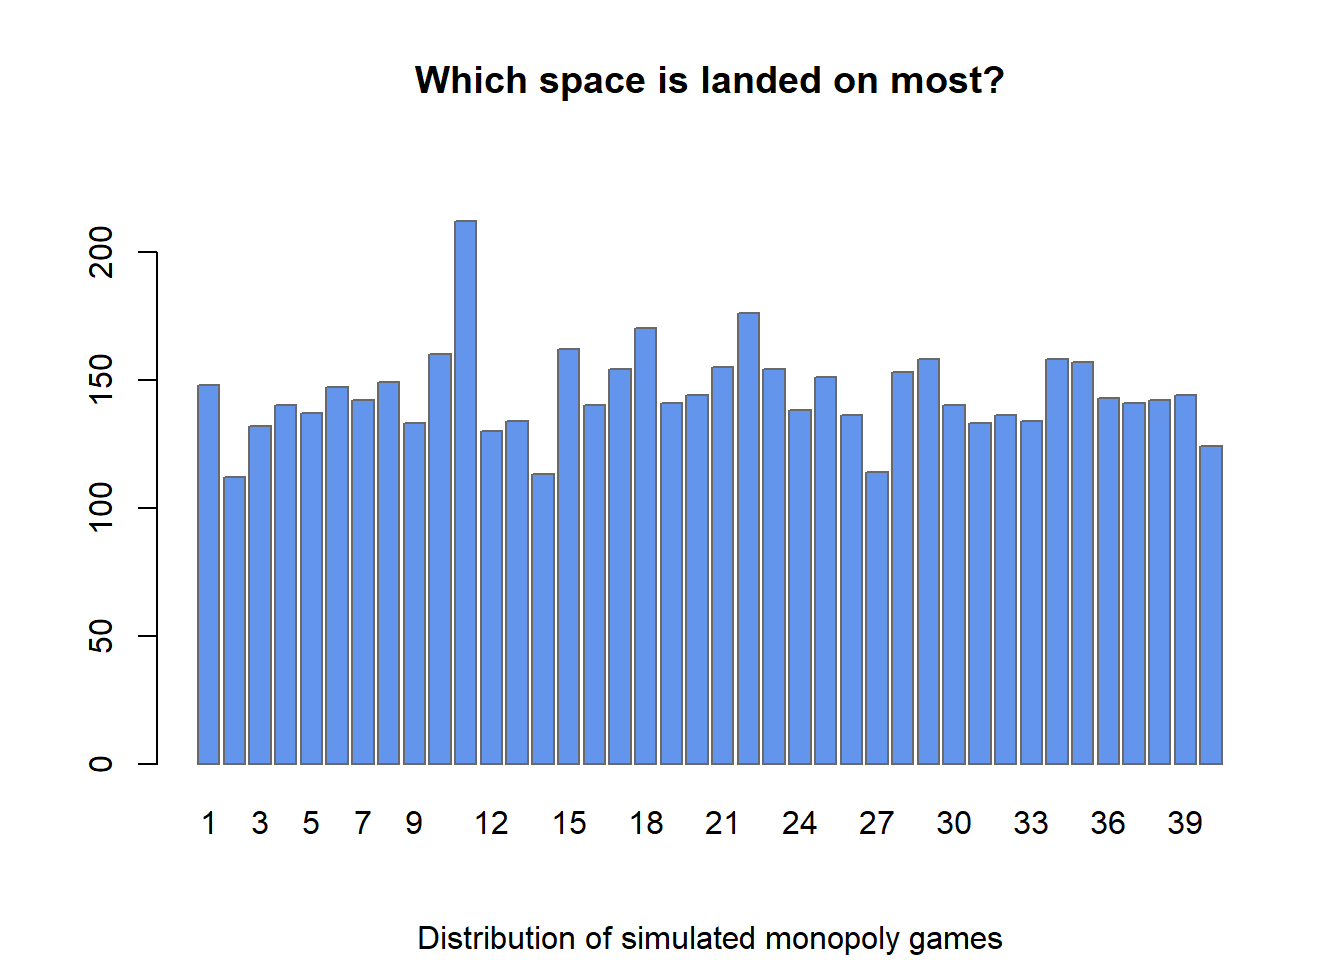
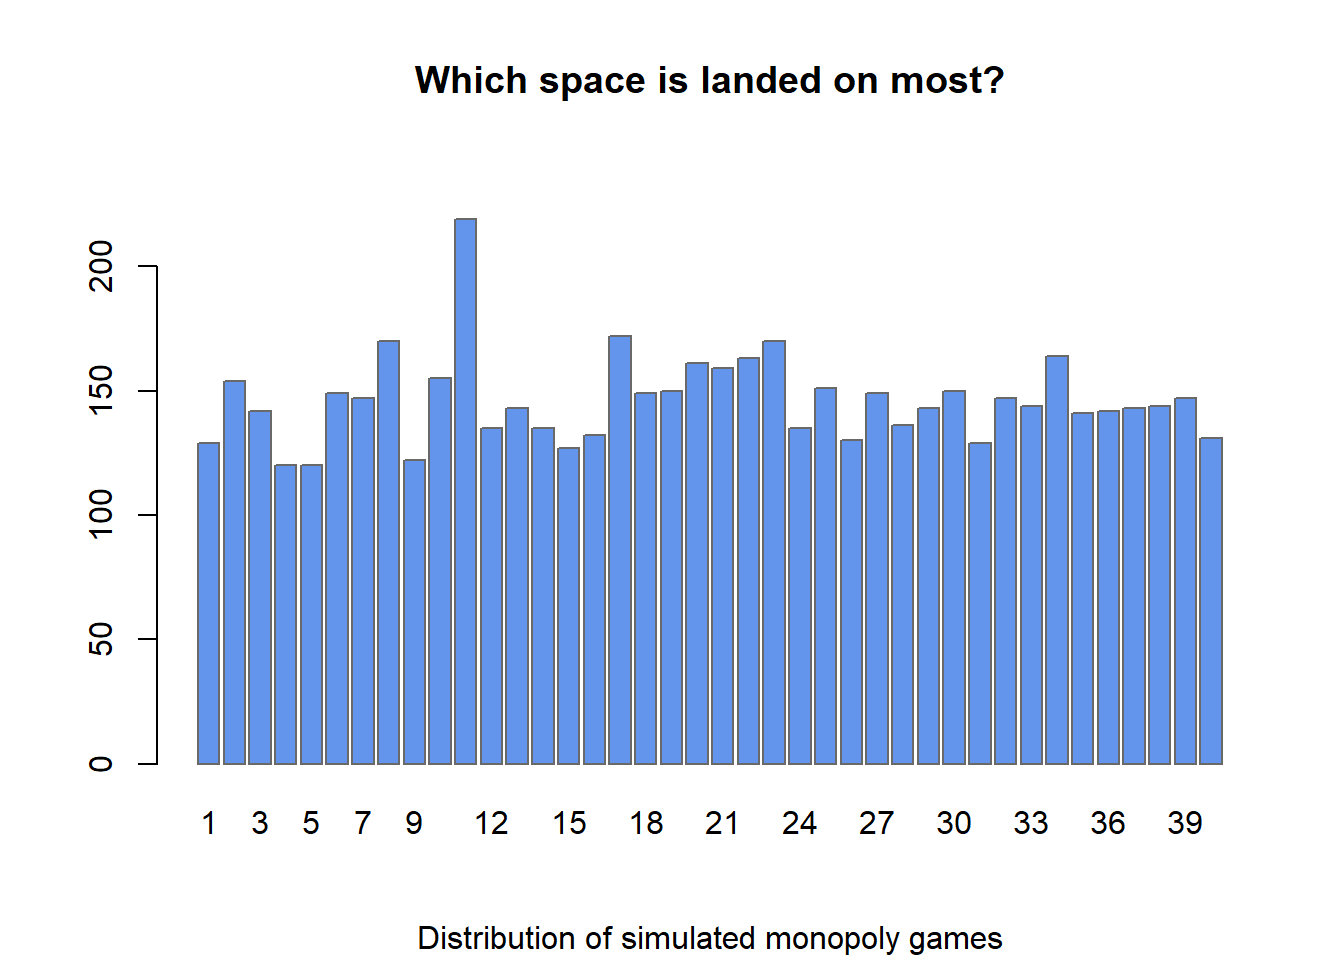
update line about spanish grammar

diff --git a/docs/projects/partyGames.html b/docs/projects/partyGames.html
@@ -208,12 +208,12 @@ pre > code.sourceCode > span > a:first-child::before { text-decoration: underlin
 <pre><code>$winner
 winner
   1   2   3   4   5   6   7   8   9  10  11  12  13  14  15 
-105 106 108 130  97 104 101 105  96  92  88  97  97  85  89 
+103 107  94 104  88  88 100 102 106  92 105 110  97  91 113 
 
 $moves
 moves
   -6   -5   -4   -3   -2   -1    1    2    3    4    5    6 
-1918 1943 1968 1816 1788 1840 1895 1816 1849 1905 1848 1914 
+1863 1896 1849 1791 1846 1922 1889 1897 1869 1874 1966 1838 
 
 attr(,"class")
 [1] "elphSum" "list"   </code></pre>
@@ -242,44 +242,44 @@ attr(,"class")
 <span id="cb6-3"><a href="#cb6-3" aria-hidden="true" tabindex="-1"></a>monopolyGame</span></code><button title="Copy to Clipboard" class="code-copy-button"><i class="bi"></i></button></pre></div>
 <div class="cell-output cell-output-stdout">
 <pre><code>[[1]]
- [1] 12  5 15 18 13 12 20 12 11 15 22 16 18  7 13 12 15 16 14 17 14 17 11 21 13
-[26] 13 12 14 19 18 14 15 17 16 11 12 17 10 14 20
+ [1] 15 13 17 12 11 15 15 11 19 14 21 11 12 17 15 15 15 12 14 13 21 17 18 15 16
+[26] 13 14 12 13 14 19 17 11 21 13 13 18 17 10 14
 
 [[2]]
- [1] 14 12 13 10 19 10 15 17 14 16 24 11 12  7 24 14 11 15 19 12 16 19 21 10 13
-[26]  9 14 11 16 19 12 16  8 20 15 10 19 16 10  8
+ [1] 12 13 16 15  8 11 20 16 12 15 24  9 16 15 15 14 17 16 20 17 18 14 21  9 13
+[26]  7 22 12 10 17 16 20 14 13 12 18 12 20 17 13
 
 [[3]]
- [1] 13 13 15 14 12 17 11  9 12 23 19 17 15  8  8 13 23 20 18 11 12 16 14 16 14
-[26] 17  9 11 19 10 16 13 13 10 22 19  9 11 20  9
+ [1]  8 20 10 11 12 20 15 17 14 16 16 15 12 11 15 18 24 13 13 14 15 11 25 16 11
+[26] 14 12 14 15 15 19 13 12 10 13 16 15 17 17 15
 
 [[4]]
- [1] 18  8 17 13 13 10  9 12 15 21 18 16  9 16 15 18 14 15  7 17 17 17 15 18 12
-[26] 12 19 10 11 18 18 19  9 15 13 14 21 15 13 10
+ [1] 13 13 18  8 20 10 17 25 15 11 18 16 21  7 12 14 23 12 11 16 12 18 20 14 19
+[26] 14 13 20 11 15 11 11 15 16 16 17 14 13 21 13
 
 [[5]]
- [1] 10 14 15 13 14 14 11 26 18 13 22  7 15 10 23 15 13 15 10 11 15 18 21  8 16
-[26]  9 12 17 13 19  8 10 13 14 17 14  8 11 16 15
+ [1] 19 15 16  8 15 14 17 13 13 16 22 12 12 18 13 14 13 21 20 12 13 13 16 11 16
+[26] 13 16 16 14 10  9 24 13 27 12 12  9  6 16  9
 
 [[6]]
- [1] 14 10  8 14 13 15 20 11  7 18 21 15 18 12 13 11 16 19 16 18 16 18 14 11 12
-[26] 20  8 21 18 12 12 12 14 19 14 19 11 15 13 18
+ [1] 14 19 11 14  9 17  8 12  9 19 29 10 15 14 10 13 14 16 15 16 18 21 17 15 14
+[26]  8 16  9 19 18 11 10 16 13 13 16 21  9 12 13
 
 [[7]]
- [1] 11 10 10 15 15 16 14 13 15  9 28 13 10 12 14 10 16 21 15 21 14 11 14 14 25
-[26] 14  6 19 21 11  7 16 10 17 17 13 23 13 17 13
+ [1] 13 16 15 10 14 20 18 20 13 11 19 14 12 15  8 14 22 13  8 20 16 15 13 16 14
+[26] 12 15 23  9 17 10 11 13 18 15 18 12 11 17 12
 
 [[8]]
- [1] 19 12  8 16 13 22 15 14 13 11 17 15 17 16 20 12 16 15 12 10 23 20 16 12 13
-[26] 15  8 19 14 15 15 13 15 16 17 13  6 25 14 12
+ [1] 14 18 11  9 10 14 17 17  5 14 26 14 15 19 13 10 14  9 19 21 13 14 16 15 16
+[26] 16 14 15 19 14  6 12 17 23 17  4 21 16  8 17
 
 [[9]]
- [1] 16 14 18 11 10 14 19 18 13 19 16 11  9 14 13 14 19 16 15 14 14 25 16 13 14
-[26] 10 13 17 16 10 12 13 21  9 19 18 11 10 15 13
+ [1] 12  8 16 18 11 11 10 16 14 22 20 17 13 10 12 10 14 15 15 18 17 21 11 11 11
+[26] 19 15  7 17 16 16 17 16  9 15 11  9 20 19 14
 
 [[10]]
- [1] 21 14 13 16 15 17  8 17 15 15 25  9 11 11 19 21 11 18 15 13 14 15 12 15 19
-[26] 17 13 14 11  8 19  9 14 22 12 11 16 16 12  6
+ [1]  9 19 12 15 10 17 10 23  8 17 24 17 15  9 14 10 16 22 15 14 16 19 13 13 21
+[26] 14 12  8 16 14 12 12 17 14 15 17 12 15 10 11
 
 attr(,"class")
 [1] "monopoly" "list"    </code></pre>
@@ -287,9 +287,9 @@ attr(,"class")
 <div class="sourceCode cell-code" id="cb8"><pre class="sourceCode r code-with-copy"><code class="sourceCode r"><span id="cb8-1"><a href="#cb8-1" aria-hidden="true" tabindex="-1"></a><span class="fu">summary.monopoly</span>(monopolyGame)</span></code><button title="Copy to Clipboard" class="code-copy-button"><i class="bi"></i></button></pre></div>
 <div class="cell-output cell-output-stdout">
 <pre><code>  1   2   3   4   5   6   7   8   9  10  11  12  13  14  15  16  17  18  19  20 
-148 112 132 140 137 147 142 149 133 160 212 130 134 113 162 140 154 170 141 144 
+129 154 142 120 120 149 147 170 122 155 219 135 143 135 127 132 172 149 150 161 
  21  22  23  24  25  26  27  28  29  30  31  32  33  34  35  36  37  38  39  40 
-155 176 154 138 151 136 114 153 158 140 133 136 134 158 157 143 141 142 144 124 
+159 163 170 135 151 130 149 136 143 150 129 147 144 164 141 142 143 144 147 131 
 attr(,"class")
 [1] "monoSum" "numeric"</code></pre>
 </div>
@@ -313,9 +313,9 @@ attr(,"class")
 <span id="cb11-7"><a href="#cb11-7" aria-hidden="true" tabindex="-1"></a><span class="fu">summary.monopoly</span>(monoParallel)</span></code><button title="Copy to Clipboard" class="code-copy-button"><i class="bi"></i></button></pre></div>
 <div class="cell-output cell-output-stdout">
 <pre><code>  1   2   3   4   5   6   7   8   9  10  11  12  13  14  15  16  17  18  19  20 
-265 244 282 273 259 276 283 271 301 294 441 271 271 259 297 291 315 300 293 309 
+277 272 278 257 286 251 288 308 319 282 412 285 278 270 305 285 294 314 305 317 
  21  22  23  24  25  26  27  28  29  30  31  32  33  34  35  36  37  38  39  40 
-307 285 309 331 298 287 270 285 289 294 300 264 279 296 284 325 302 291 284 273 
+291 338 335 309 291 264 300 283 278 273 283 284 293 295 315 272 285 306 268 307 
 attr(,"class")
 [1] "monoSum" "numeric"</code></pre>
 </div>

diff --git a/docs/main_spanish.html b/docs/main_spanish.html
@@ -203,7 +203,7 @@ window.Quarto = {
 
 <div class="quarto-listing quarto-listing-container-grid" id="listing-listing">
 <div class="list grid quarto-listing-cols-3">
-<div class="g-col-1" data-index="0" data-listing-date-sort="1732086000000" data-listing-file-modified-sort="1732135993259" data-listing-date-modified-sort="NaN" data-listing-reading-time-sort="10" data-listing-word-count-sort="1879">
+<div class="g-col-1" data-index="0" data-listing-date-sort="1732086000000" data-listing-file-modified-sort="1732148771573" data-listing-date-modified-sort="NaN" data-listing-reading-time-sort="10" data-listing-word-count-sort="1874">
 <a href="./spanish/spanish-class-nov2024.html" class="quarto-grid-link">
 <div class="quarto-grid-item card h-100 card-left">
 <p class="card-img-top">
@@ -214,7 +214,7 @@ window.Quarto = {
 Spanish Cheat Sheet
 </h5>
 <div class="card-text listing-description">
-The following document covers basic grammar, important phrases, and songs to help you learn some bassic Spanish. And additional phrases too sensitive
+The following document covers basic grammar, important phrases, and songs to help you learn some bassic Spanish.
 </div>
 <div class="card-attribution card-text-small justify">
 <div class="listing-author">

diff --git a/docs/spanish/spanish-class-nov2024.html b/docs/spanish/spanish-class-nov2024.html
@@ -4821,7 +4821,7 @@ vertical-align: -.125em;
 
 <section id="introduction" class="level1">
 <h1>Introduction</h1>
-<p>The following document covers basic grammar, important phrases, and songs to help you learn some bassic Spanish. And additional phrases too sensitive</p>
+<p>The following document covers basic grammar, important phrases, and songs to help you learn some bassic Spanish.</p>
 </section>
 <section id="grammar-basics" class="level1">
 <h1>Grammar Basics</h1>
